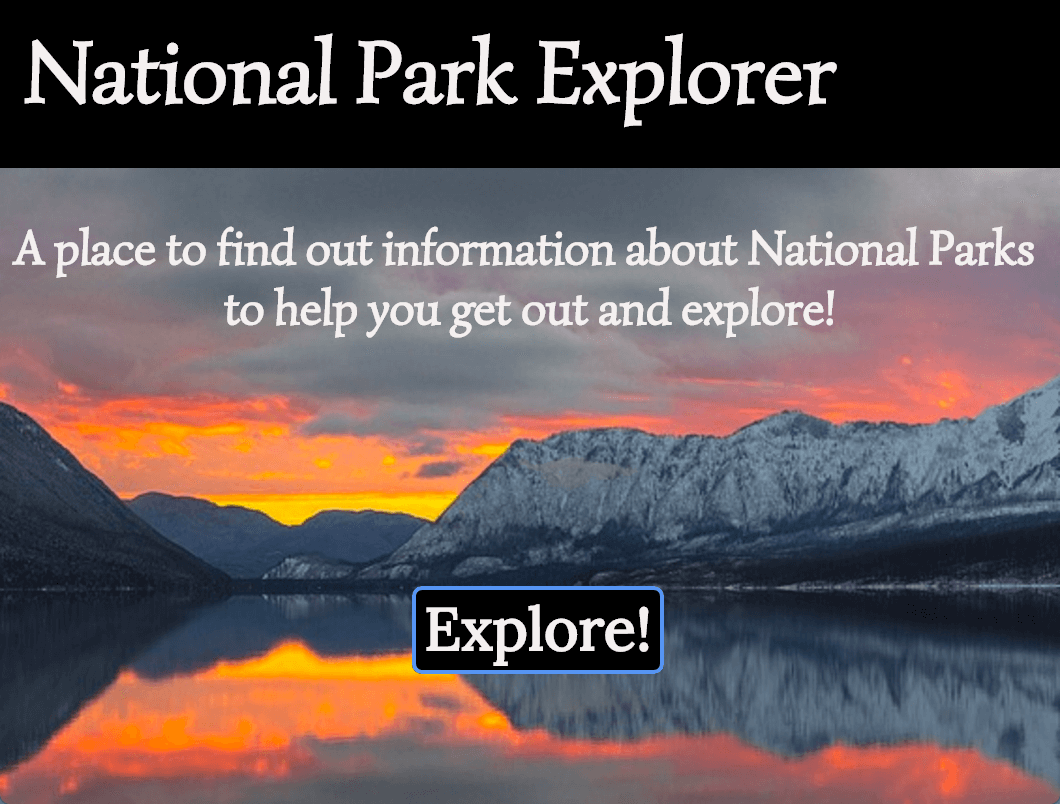
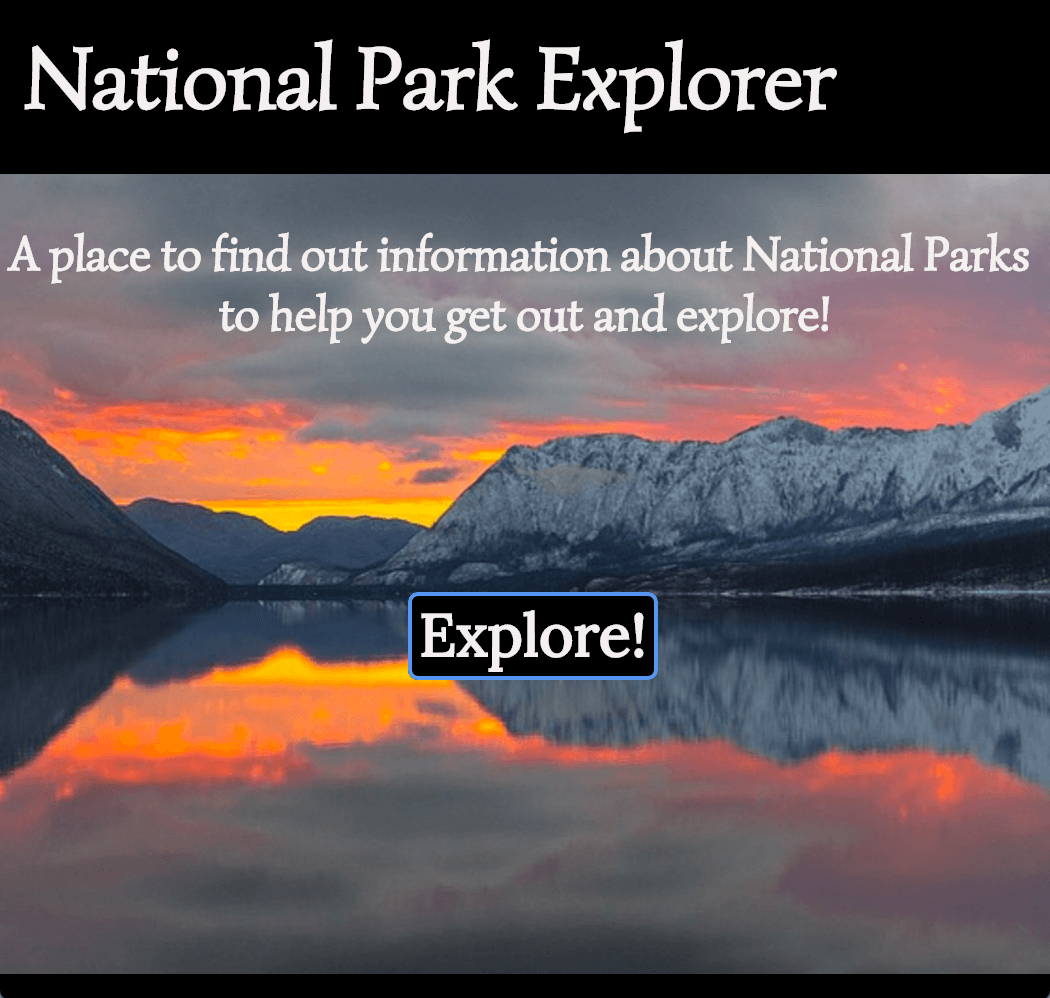
made screenshot images larger

diff --git a/main.css b/main.css
@@ -155,7 +155,7 @@ section.projects .apiApp .projectImage {
     background-position: top center;
     background-size: cover;
     background-repeat: no-repeat;
-    height: 400px;
+    height: 500px;
     display: inline-block;
 }
 
